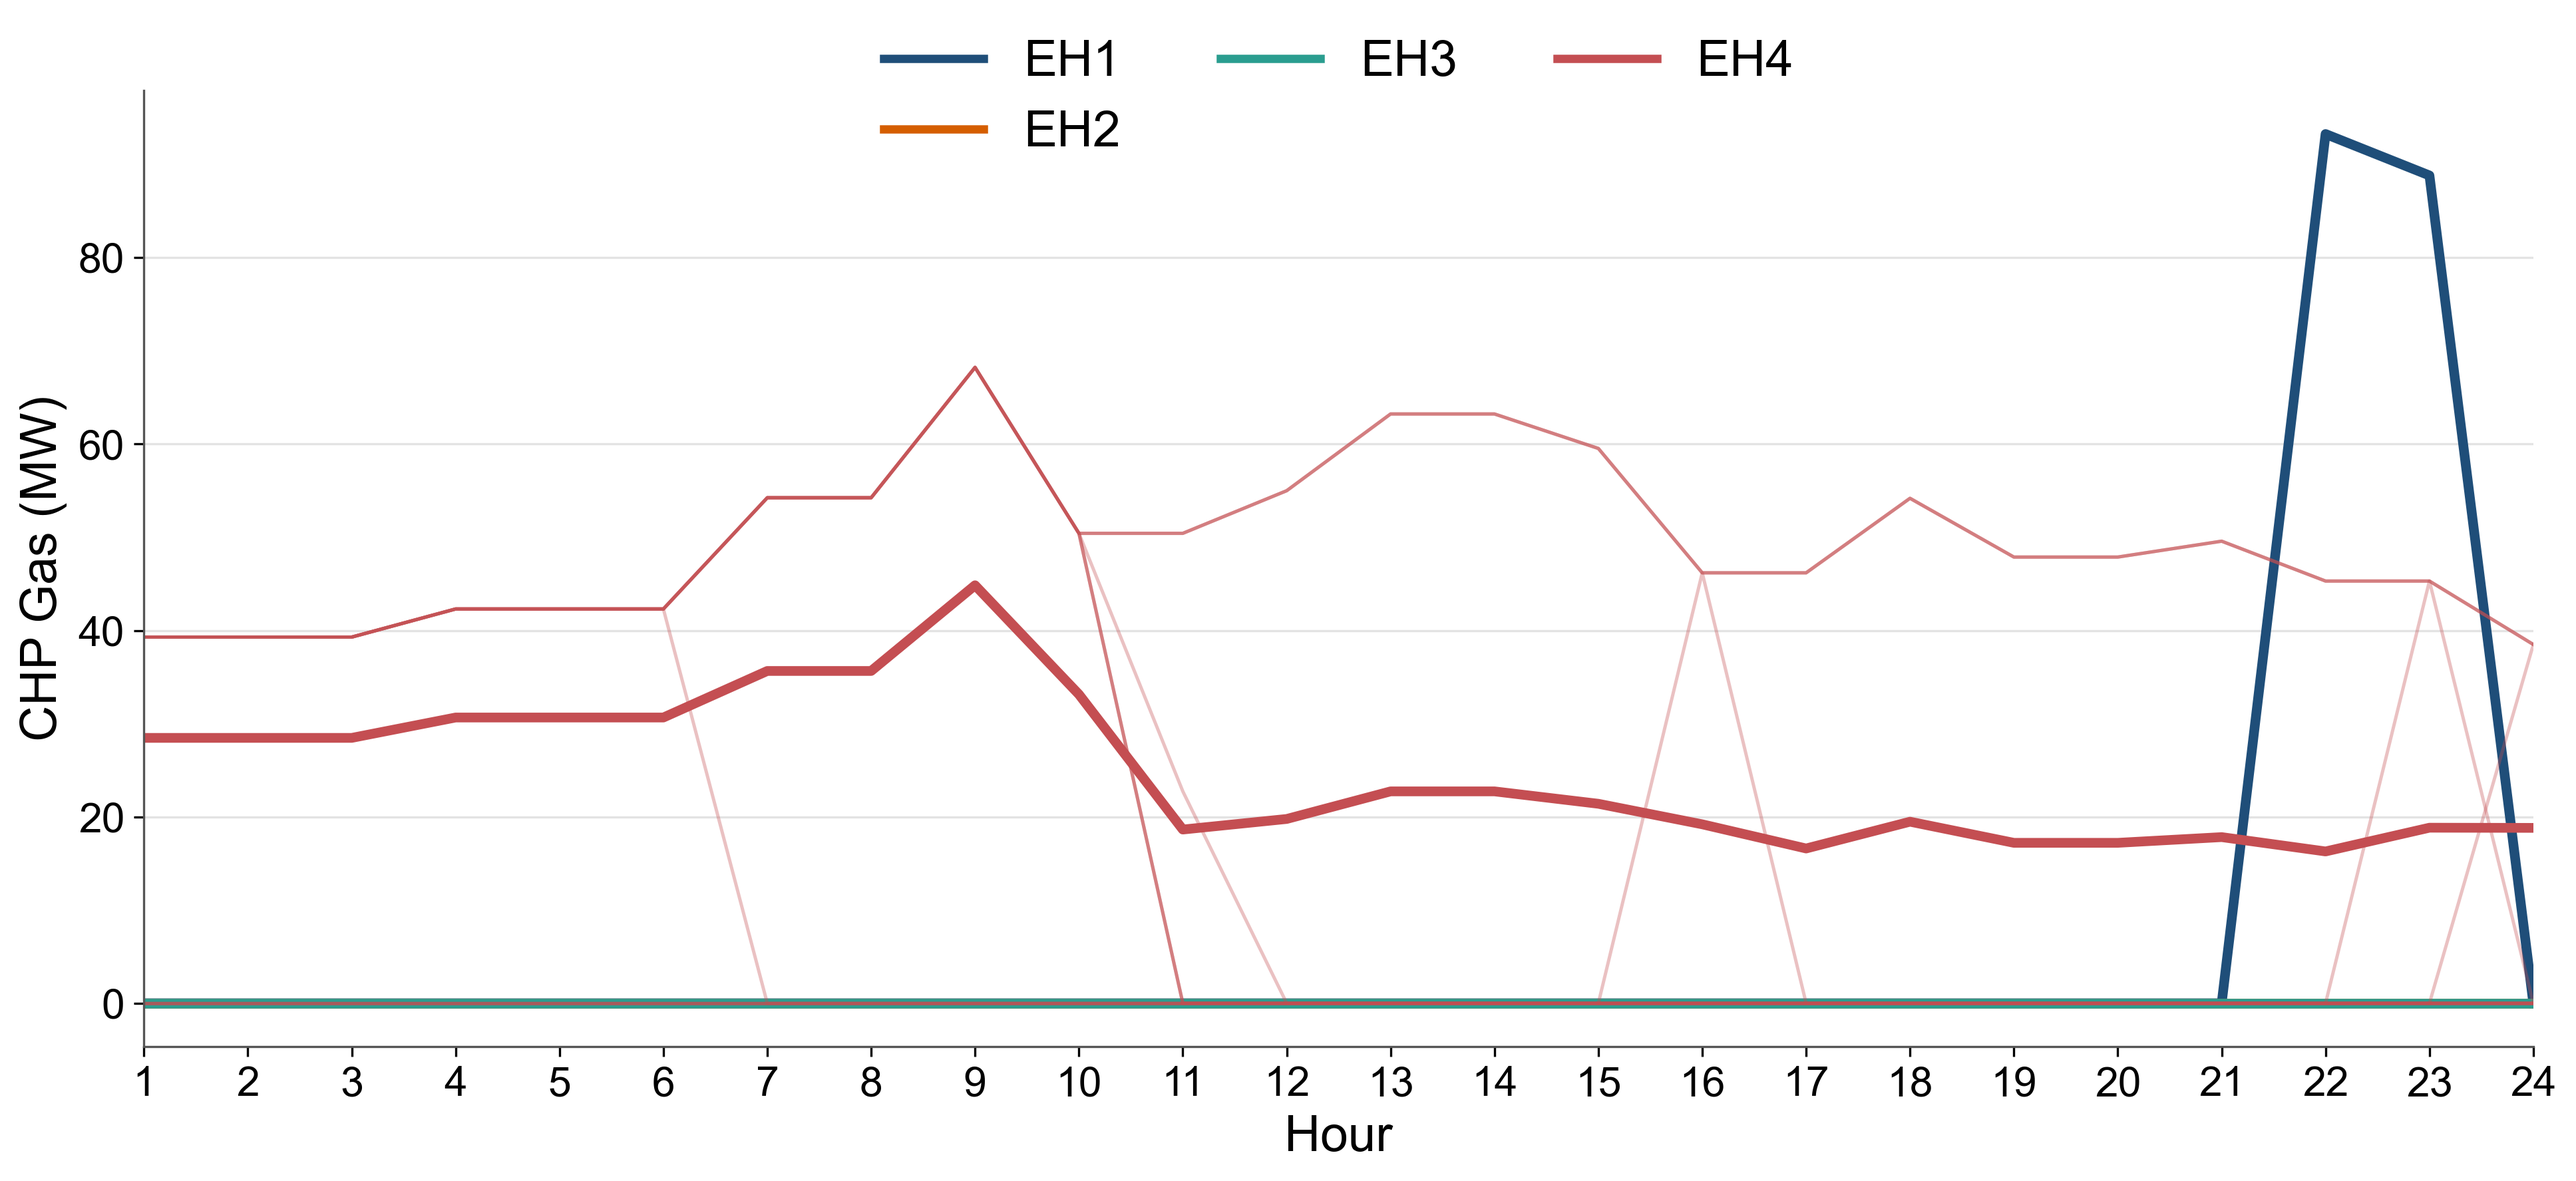
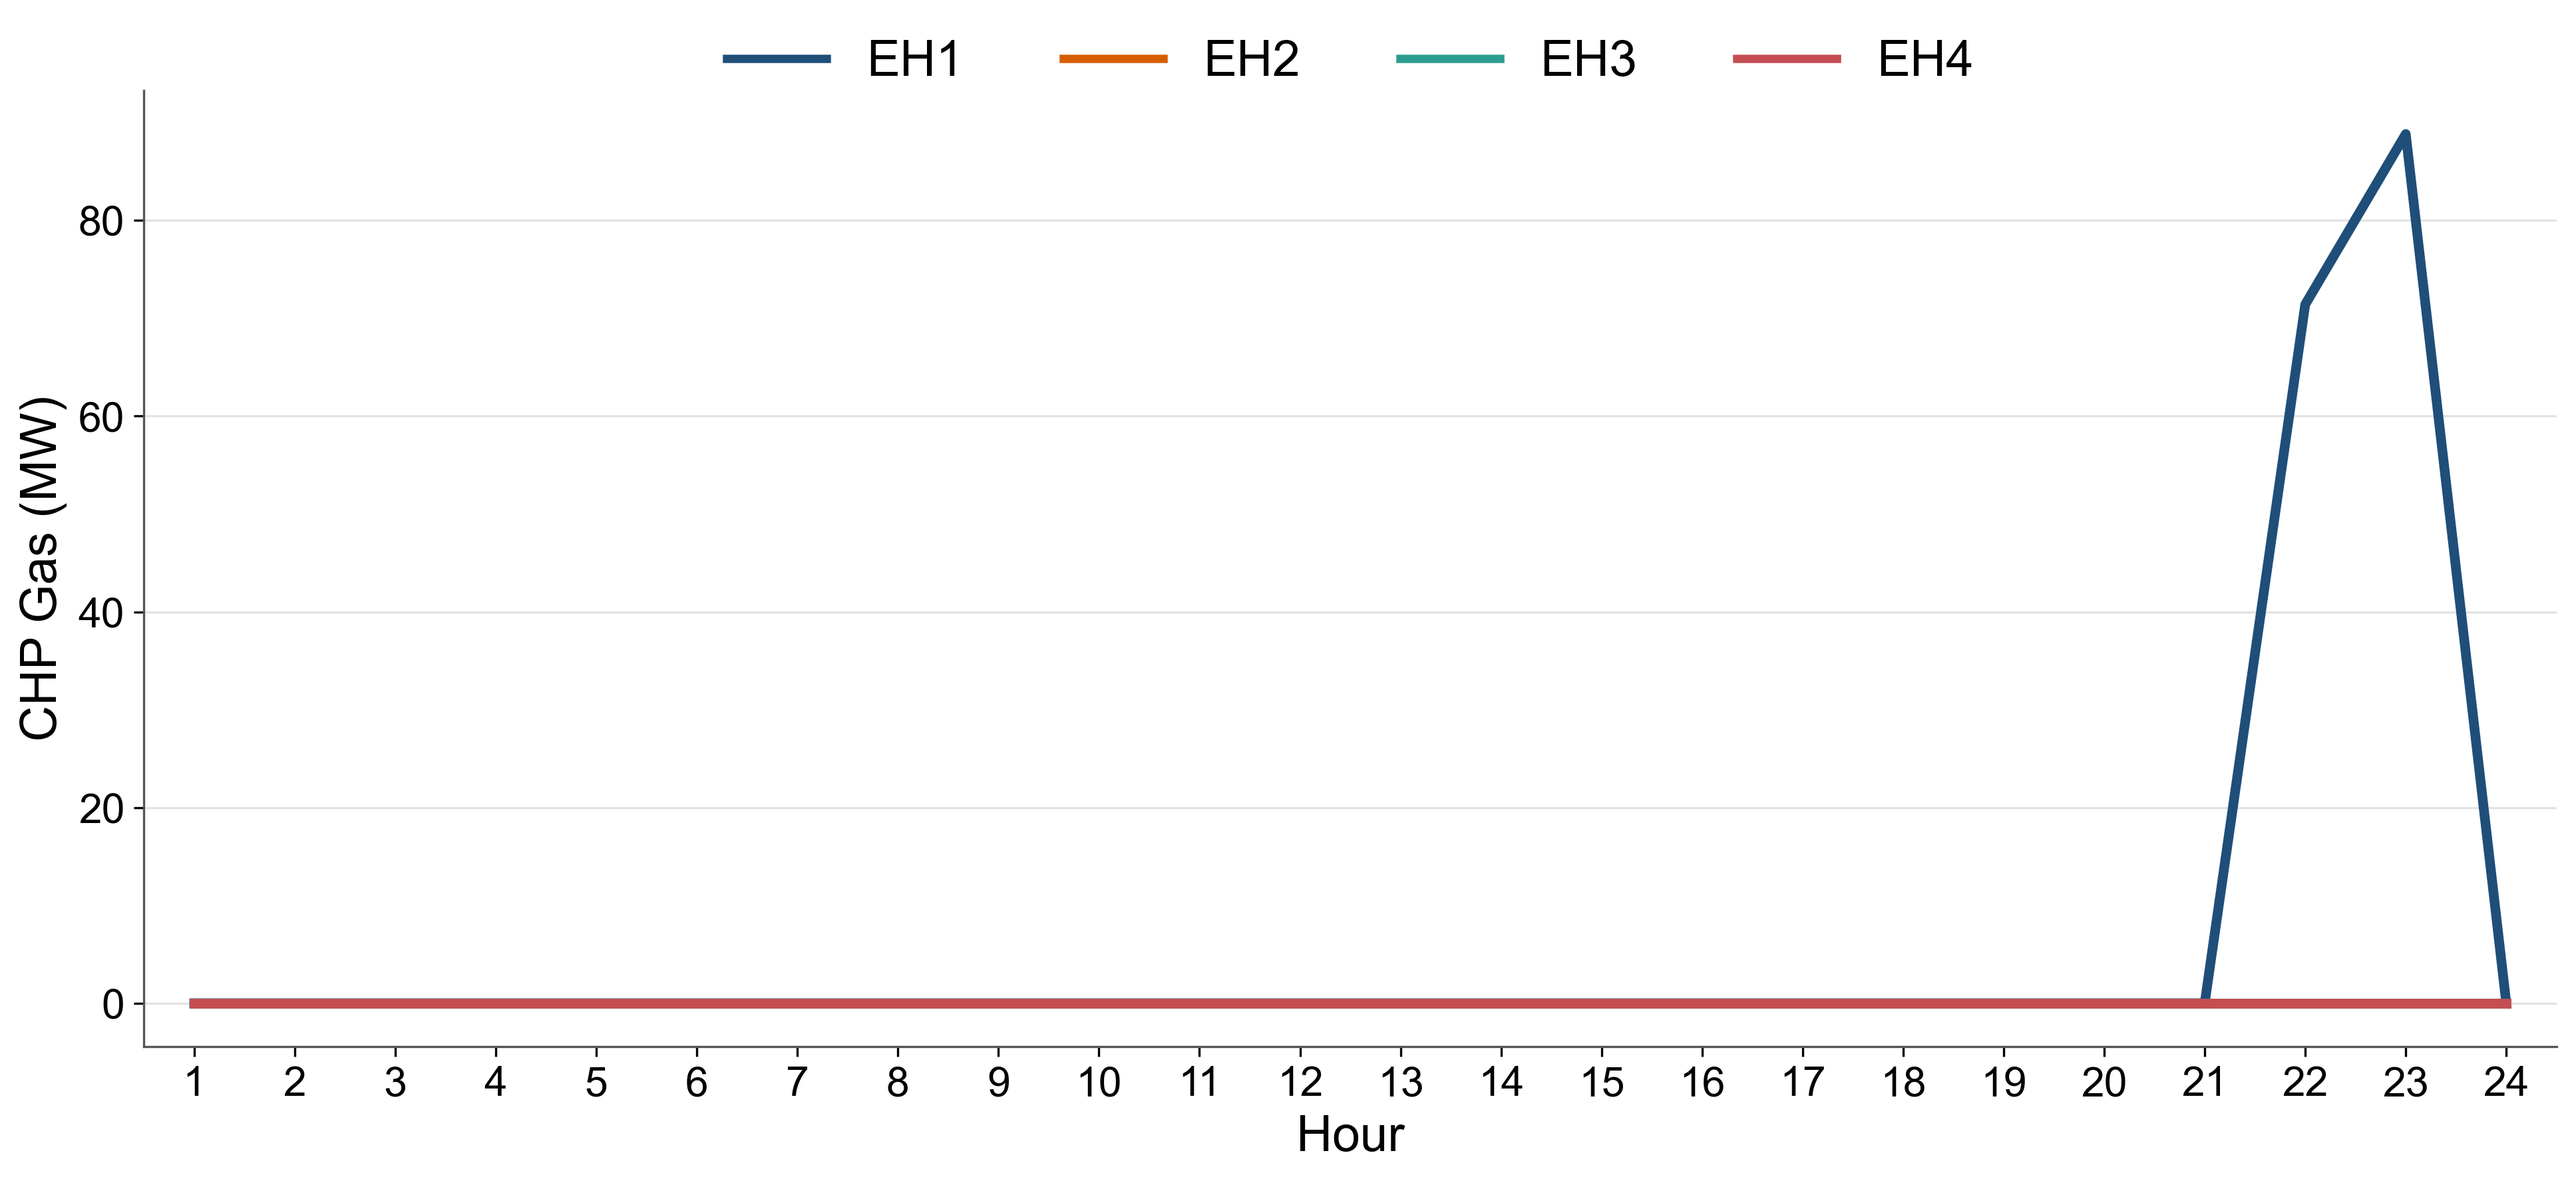
update plots

diff --git a/viz/run_plots.py b/viz/run_plots.py
@@ -17,11 +17,11 @@ STUDY_DAY = "2026-05-20"
 MODEL_NAMES = ["EH1", "EH2", "EH3", "EH4"]
 
 # Elementos internos a validar de UN modelo concreto (storage, HP...)
-SINGLE_MODEL_TO_PLOT = "EH3"
+SINGLE_MODEL_TO_PLOT = "EH4"
 SINGLE_MODEL_FIGURES = ["ESS", "EHP"]              # -> añade "EHP" cuando quieras validarlo también
 
 # Elementos que sí tiene sentido comparar entre modelos
-COMPARISON_FIGURES = ["Wind_used", "Curt", "G"]
+COMPARISON_FIGURES = ["Wind_used", "Curt", "G1", "G2", "G"]
 
 
 def main():
